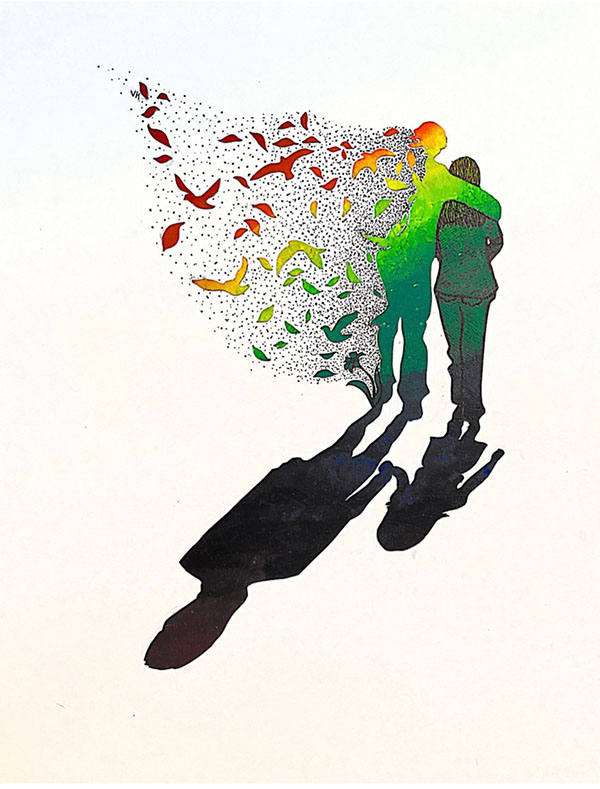
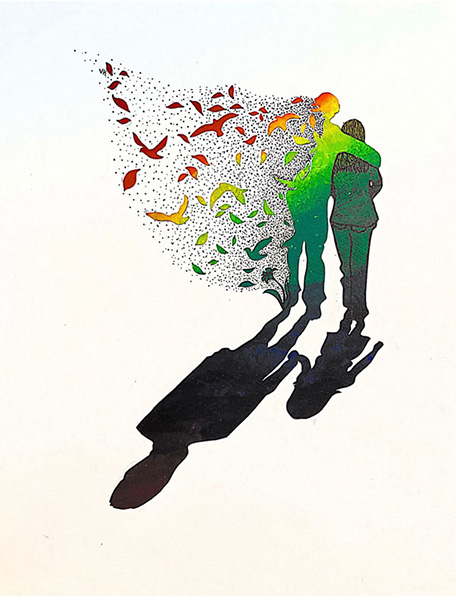
adding more to every picture

diff --git a/studio2/script.js b/studio2/script.js
@@ -4,18 +4,29 @@
     const hotSpots = document.querySelectorAll('#container div');
     const theImg = document.querySelector('div img');
     const theContainer = document.querySelector('#container');
+    const text = document.querySelector('#explain');
 
     hotSpots.forEach(function(eachSpot){
         eachSpot.addEventListener('click', zoomPhoto);
+        
     });
 
     function zoomPhoto(event){
         const thisCorner = event.target.id;
 
         switch(thisCorner){
-            case 'shadow': theImg.className = 'shadow'; break;
-            case 'flyaways': theImg.className = 'flyaways'; break;
-            case 'current': theImg.className = 'current'; break;
+            case 'shadow': 
+                theImg.className = 'shadow';
+                text.innerHTML = '<h2>The Shadow</h2> <p>explaining what the shadow signifies</p>'; 
+                break;
+            case 'flyaways': 
+                theImg.className = 'flyaways';
+                text.innerHTML = '<h2>The Transformation</h2> <p>explaning what the flyaways signifies</p>'; 
+                break;
+            case 'current': 
+                theImg.className = 'current';
+                text.innerHTML = '<h2>The Walking Silhouettes</h2> <p>explaining what the silhouettes mean</p>'; 
+                break;
         }
 
         const overlay = document.createElement('div');
@@ -24,7 +35,8 @@
 
         overlay.addEventListener('click', function(){
             theImg.className = "start";
+            text.innerHTML = '<h2>Overview</h2> <p>On October 16, 2020, I lost on of the most important people to me: my grandfather, Vidal Haro.</p>';
             overlay.remove();
         });
-    }
+    };
 })();

diff --git a/studio2/styles.css b/studio2/styles.css
@@ -7,15 +7,26 @@ body{
     font-family: Lora;
     color: #f4f4f4;
     display: flex;
-    justify-content: left;
-    gap: 3em;
+    justify-content: center;
+    margin: auto;
+}
+
+#text{
+    margin: 40px;
+    width: 580px;
+}
+
+h1{
+    font-size: 3em;
+    margin: 40px;
+    text-align: center;
 }
 
 
 /* Zoom-In & Out Styling for JS*/
 #container {
-    width: 532px;
-    height: 700px;
+    width: 456px;
+    height: 600px;
     overflow: hidden;
     position: relative;
     margin: 2.5em;
@@ -32,51 +43,51 @@ body{
 }
 
 #shadow{
-    width: 360px;
-    height: 180px;
+    width: 320px;
+    height: 160px;
     transform: rotate(-53deg);
-    top: 390px;
-    left: 100px;
+    top: 330px;
+    left: 82px;
 }
 
 #flyaways{
-    width: 305px;
-    height: 315px;
-    top: 50px;
-    left: 80px;
+    width: 254px;
+    height: 264px;
+    top: 46px;
+    left: 70px;
     z-index: 1;
 }
 
 #current{
-    width: 124px;
-    height: 268px;
-    top: 105px;
-    left: 325px;
+    width: 101px;
+    height: 230px;
+    top: 90px;
+    left: 284px;
     z-index: 2;
 }
 
 .start {
-    width: 532px;
+    width: 456px;
     left: 0;
     top: 0;
 }
 
 .shadow{
-    width: 800px;
+    width: 720px;
     top: -460px;
-    left: -153px;
+    left: -160px;
 }
 
 .flyaways{
-    width: 900px;
-    top: -90px;
-    left: -120px;
+    width: 805px;
+    top: -60px;
+    left: -123px;
 }
 
 .current{
     width: 990px;
-    top: -140px;
-    left: -440px;
+    top: -155px;
+    left: -455px;
 }
 
 .overlay {

diff --git a/studio2/index.html b/studio2/index.html
@@ -15,7 +15,7 @@
 
     <body>
         <div id="container">
-            <img src="images/in-loving-memory.jpg" alt="In Loving Memory artwork" width="532" class="start">
+            <img src="images/in-loving-memory.jpg" alt="In Loving Memory artwork" width="456" class="start">
             <div id="shadow"></div>
             <div id="flyaways"></div>
             <div id="current"></div>
@@ -23,6 +23,11 @@
 
         <section id="text">
             <h1>In Loving Memory</h1>
+
+            <article id="explain">
+                <h2>Overview</h2>
+                <p>On October 16, 2020, I lost on of the most important people to me: my grandfather, Vidal Haro.</p>
+            </article>
         </section>
     </body>
 </html>
